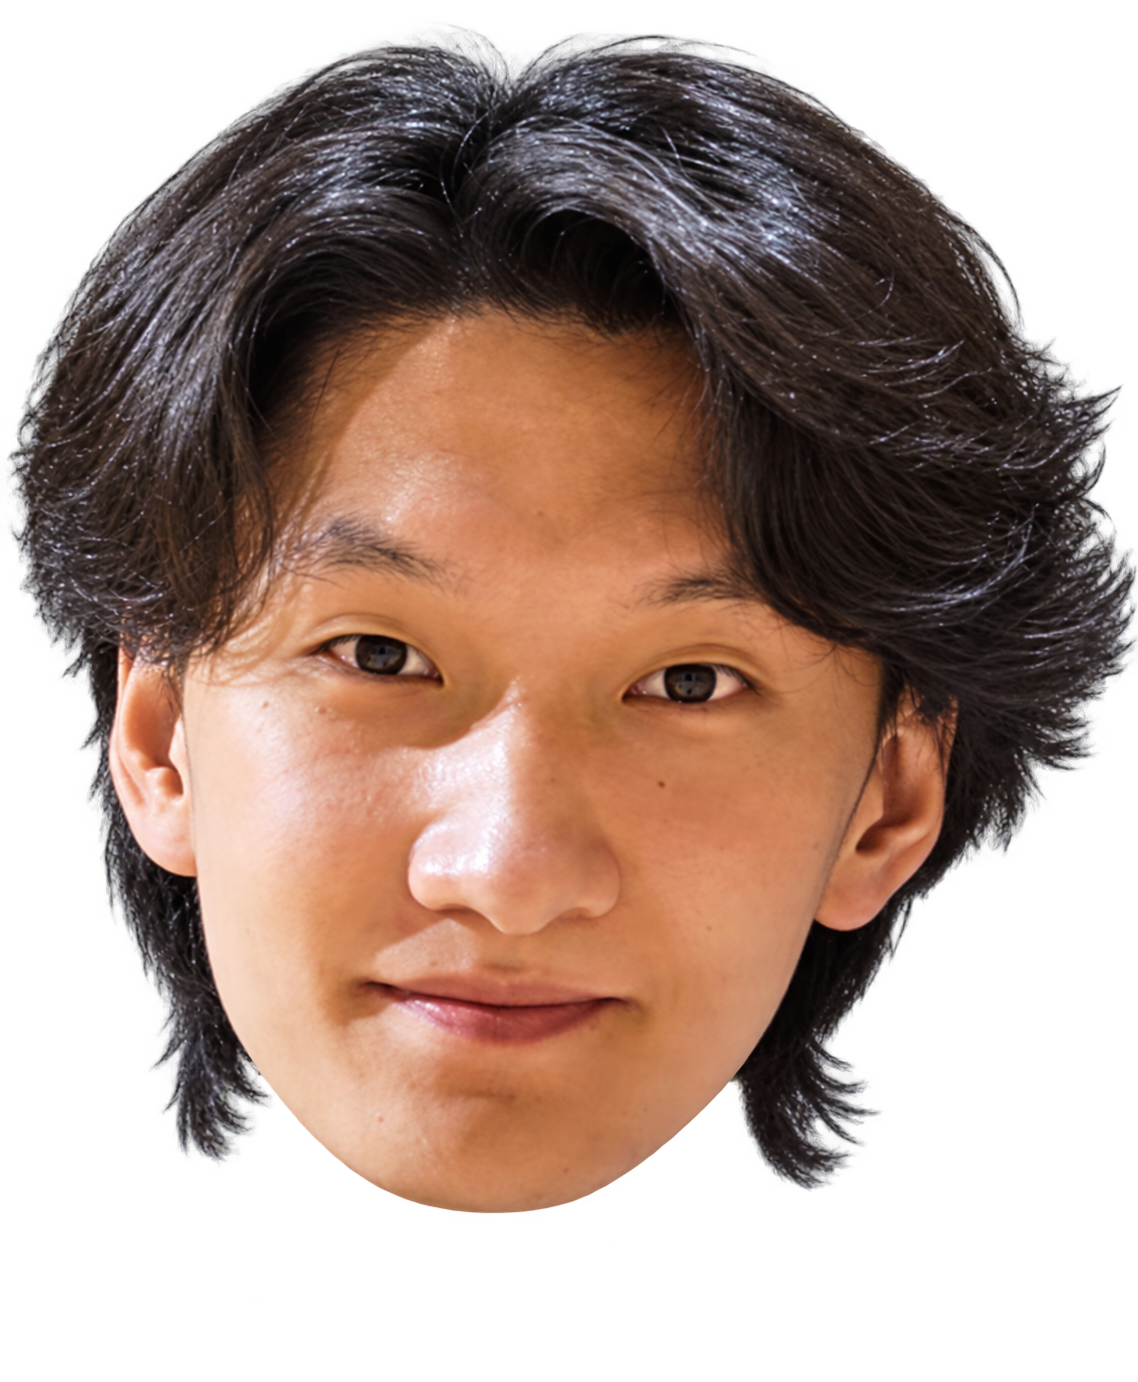
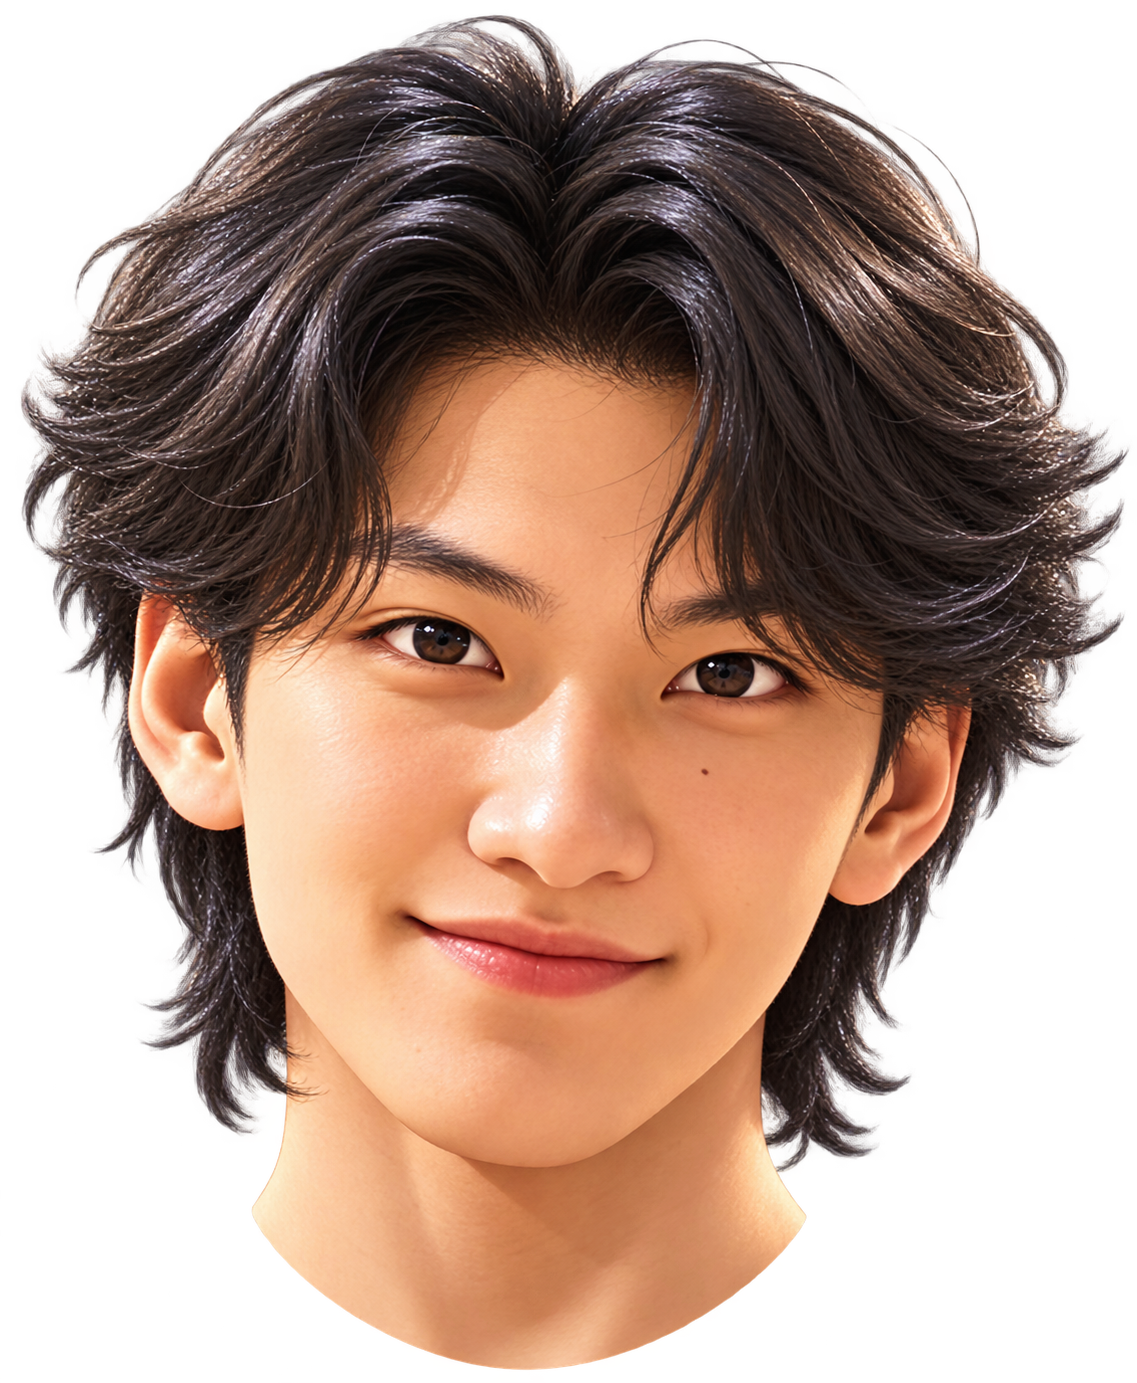
Update Adam character portrait

diff --git a/index.html b/index.html
@@ -1050,7 +1050,7 @@ const DRUNK_NOSCORE=.01;   // 만취범's won point: 1% he is too drunk to turn 
 const TRAIT_POWER=.3,TRAIT_MULT=1.25,TRAIT_ERR=.1,SIDE_NAME={'1':'포핸드','-1':'백핸드'};
 // Head-only cutouts use their own chin anchors; untouched photos keep their original fit.
 const HEAD_FITS={yunhwan:{h:49,b:22,cx:.5},jongryeong:{h:49,b:21.5,cx:.46},ajae:{h:49,b:23.5,cx:.5},sleepy:{h:49,b:20,cx:.5},hyde:{h:49,b:20,cx:.5},percival:{h:45,b:19.5,cx:.45},adam:{h:49,b:24,cx:.5},minheeS:{h:49,b:20.5,cx:.42}};
-const FACES={};for(const [k,f] of [['hugo','hugo-face.png'],['gambler','gambler-face.png'],['leesin','leesin-face.png'],['percival','percival-face.png'],['drunk','drunk-face.png'],['ajae','ajae-face.png'],['sleepy','sleepy-face.png'],['hyde','hyde-face.png'],['jh','jekyll-hyde-face.png'],['minhee','minhee-face.png'],['yunhwan','yunhwan-face.png'],['seohyun','seohyun-face.png'],['jongryeong','jongryeong-face.png'],['songstar','songstar-face.png'],['ttalgak','ttalgak-face.png'],['adam','adam-face.png'],['godyung','godyung-face.png'],['jiseong','jiseong-face.png'],['infibot','infibot-face.png'],['boss','boss-face.png'],['minheeS','minhee-serve.png'],['minheeF','minhee-fh.png']]){const im=new Image();im.photoFit=HEAD_FITS[k];im.fetchPriority=['minhee','gambler'].includes(k)?'high':'low';im.src=f;im.onload=()=>{if(typeof setCharacter==='function')setCharacter(charType);};FACES[k]=im;}
+const FACES={};for(const [k,f] of [['hugo','hugo-face.png'],['gambler','gambler-face.png'],['leesin','leesin-face.png'],['percival','percival-face.png'],['drunk','drunk-face.png'],['ajae','ajae-face.png'],['sleepy','sleepy-face.png'],['hyde','hyde-face.png'],['jh','jekyll-hyde-face.png'],['minhee','minhee-face.png'],['yunhwan','yunhwan-face.png'],['seohyun','seohyun-face.png'],['jongryeong','jongryeong-face.png'],['songstar','songstar-face.png'],['ttalgak','ttalgak-face.png'],['adam','adam-face.png?v=2'],['godyung','godyung-face.png'],['jiseong','jiseong-face.png'],['infibot','infibot-face.png'],['boss','boss-face.png'],['minheeS','minhee-serve.png'],['minheeF','minhee-fh.png']]){const im=new Image();im.photoFit=HEAD_FITS[k];im.fetchPriority=['minhee','gambler'].includes(k)?'high':'low';im.src=f;im.onload=()=>{if(typeof setCharacter==='function')setCharacter(charType);};FACES[k]=im;}
 const faceImg=look=>{const im=look&&look.face&&FACES[look.jekyll&&jk()<0?'hyde':look.face];return im&&im.complete&&im.naturalWidth?im:null;};
 // Each racket's special: shot type in PingPhysics.shot, trail colour, coach line.
 const SPECIALS={
